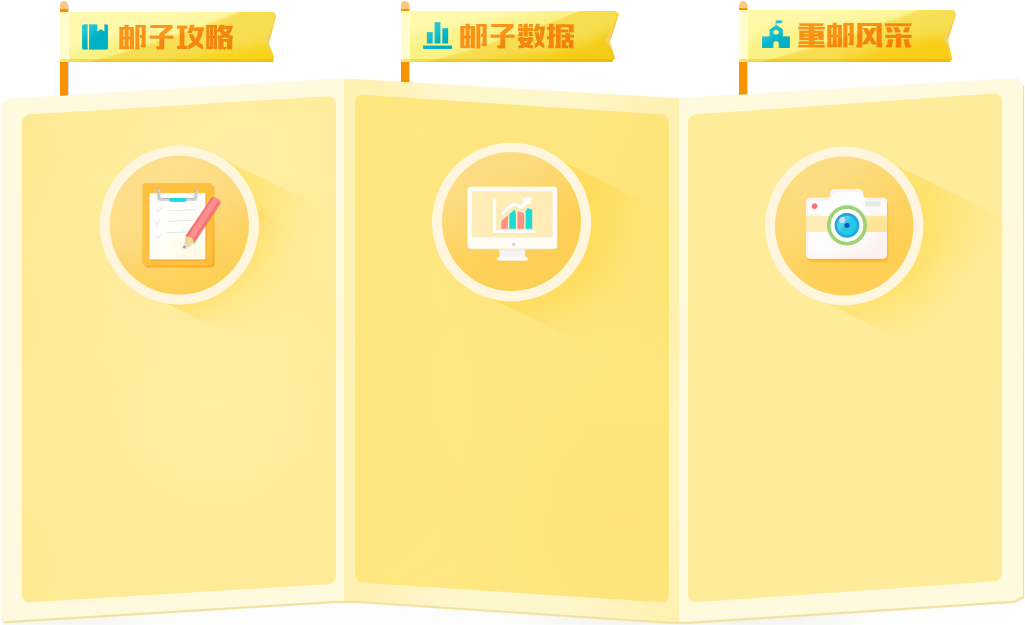
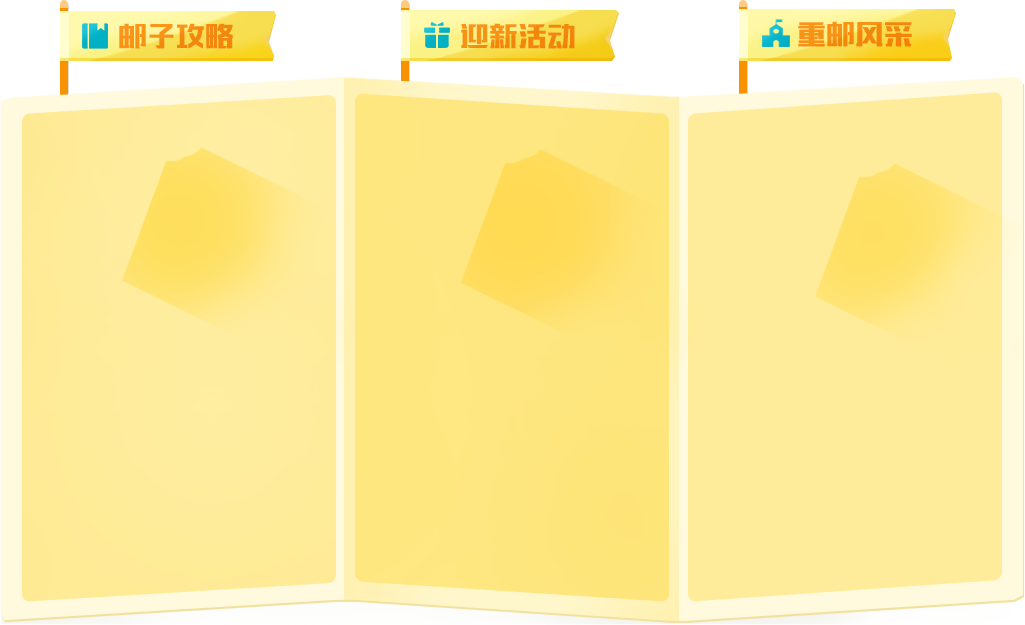
整合

diff --git a/index.html b/index.html
@@ -26,7 +26,6 @@
                         <li class="navLi data animated"><a href="./yingxin.html">迎新活动</a></li>
                         <li class="navLi know animated"><a href="./xzbbm.html">学长帮帮忙</a></li>
                         <li class="navLi aboutUs animated"><a href="##">关于我们</a></li>
-                        <li class="navLi freshLogin animated"><a href="##">新生登录</a></li>
                         <li class="slideBar"></li>
                     </ul>
                 </div>
@@ -162,19 +161,24 @@
         <div id="content-wrp">
             <div id="content">
                  <div class="c_section1 section">
+                    <div class="icon icon1"></div>
                     <p class="desc">提供给新生们火车站，机场等到学校的公交车路线以及打车的大致费用、寝室条件、必备清单、新生群、老乡群、班级群、学校周边银行、超市、美食美景等信息。</p>
                     <div class="moreBtn animated"><a href="##">了解更多</a><div class="shadow"></div></div>
                 </div>
                 <div class="c_section2 section">
-                    <p class="desc">无论是寻找志同道合的朋友，各专业男女比例，各专业就业情况，还是同年同日，同乡比例，寝室信息等等。你想要知道的，都在这里。</p>
+                    <div class="icon icon2"></div>
+                    <p class="desc">这里有精彩的活动等待着各位萌新参与活动就有机会赢取精美奖品!</p>
                     <div class="moreBtn animated"><a href="##">了解更多</a><div class="shadow"></div></div>
                 </div>
                 <div class="c_section3 section">
+                    <div class="icon icon3"></div>
                     <p class="desc">这里有优秀教师和邮子的风采展示，各大校级学生组织的简介，更有精美照片与精彩原创视频。</p>
                     <div class="moreBtn animated"><a href="##">了解更多</a><div class="shadow"></div></div>
                 </div>
             </div>
         </div>
+
+
         <div id="description-wrp">
             <div id="description">
                 <div class="forum">

diff --git a/css/main_page.css b/css/main_page.css
@@ -310,6 +310,7 @@ body {
 	transform: rotate(0deg);
 }
 }
+
 #main #banner-wrp .banner .isLand-con #gotocqupt {
 	z-index: 5;
 	position: absolute;
@@ -817,11 +818,44 @@ body {
 	margin: 0 auto;
 	background:url('../img/content.png') no-repeat center center;
 }
+
 #main #content .section {
+	position: relative;
 	float: left;
 	width: 320px;
 	height: 460px;
 	padding-top: 117px;
+}
+#main #content .section:hover .icon {
+	-webkit-animation-name: iconRotate;
+	animation-name: iconRotate;
+
+}
+@keyframes iconRotate {
+	0% {transform: rotate(0deg)}
+	30%{transform: rotate(30deg)}
+	60%{transform: rotate(-15deg)}
+	80%{transform: rotate(10deg)}
+	100%{transform: rotate(0deg)}
+}
+#main #content .section .icon {
+	position: absolute;
+	left: 80px;
+	top: 142px;
+	width: 160px;
+	height: 160px;
+	-webkit-animation-duration: 0.5s;
+	animation-duration: 0.5s;
+	animation-timing-function: linear;
+}
+#main #content .section .icon1 {
+	background: url('../img/iconGuidence.png') no-repeat center center;
+}
+#main #content .section .icon2 {
+	background: url('../img/iconLoudSpeaker.png') no-repeat center center;
+}
+#main #content .section .icon3 {
+	background: url('../img/iconCamera.png') no-repeat center center;
 }
 #main #content .section.c_section1 {
 	margin-left: 19px;

diff --git a/gonglue.html b/gonglue.html
@@ -20,12 +20,11 @@
                 <div class="h_m_right">
                     <ul class="clearfix navUl">
                         <li class="navLi  animated mainPage"><a href="index.html">首页</a></li>
-                        <li class="navLi tactics currentPage animated"><a href="##">邮子攻略</a></li>
-                        <li class="navLi mien animated"><a href="fengcai.html">重邮风采</a></li>
+                        <li class="navLi tactics currentPage animated"><a href="./gonglue.html">邮子攻略</a></li>
+                        <li class="navLi mien animated"><a href="./fengcai.html">重邮风采</a></li>
                         <li class="navLi data animated"><a href="./yingxin.html">迎新活动</a></li>
-                        <li class="navLi know animated"><a href="xzbbm.html">学长帮帮忙</a></li>
+                        <li class="navLi know animated"><a href="./xzbbm.html">学长帮帮忙</a></li>
                         <li class="navLi aboutUs animated"><a href="##">关于我们</a></li>
-                        <li class="navLi freshLogin animated"><a href="##">新生登录</a></li>
                         <li class="slideBar"></li>
                     </ul>
                 </div>

diff --git a/fengcai.html b/fengcai.html
@@ -24,9 +24,8 @@
                         <li class="navLi tactics animated"><a href="./gonglue.html">邮子攻略</a></li>
                         <li class="navLi mien animated currentPage"><a href="./fengcai.html">重邮风采</a></li>
                         <li class="navLi data animated"><a href="./yingxin.html">迎新活动</a></li>
-                        <li class="navLi know animated"><a href="##">学长帮帮忙</a></li>
+                        <li class="navLi know animated"><a href="./xzbbm.html">学长帮帮忙</a></li>
                         <li class="navLi aboutUs animated"><a href="##">关于我们</a></li>
-                        <li class="navLi freshLogin animated"><a href="##">新生登录</a></li>
                         <li class="slideBar"></li>
                     </ul>
                 </div>

diff --git a/js/main.js b/js/main.js
@@ -191,6 +191,7 @@ descNextA.onclick = function () {         // 向右箭头
 	}
 	addClass(positionDescArry[lunboCon.index],'currentArrow');
 	descfix(targetArrow().offsetLeft,targetArrow().offsetTop);
+	positionDesc.innerHTML = targetArrow().getAttribute('name');
 }
 descPrevA.onclick = function () {      // 向左箭头
 	var x_ = 0;
@@ -210,6 +211,7 @@ descPrevA.onclick = function () {      // 向左箭头
 	}
 	addClass(positionDescArry[lunboCon.index],'currentArrow');
 	descfix(targetArrow().offsetLeft,targetArrow().offsetTop);
+	positionDesc.innerHTML = targetArrow().getAttribute('name');
 }
 
 

diff --git a/xzbbm.html b/xzbbm.html
@@ -25,7 +25,6 @@
                         <li class="navLi data animated"><a href="./yingxin.html">迎新活动</a></li>
                         <li class="navLi know currentPage animated"><a href="./xzbbm.html">学长帮帮忙</a></li>
                         <li class="navLi aboutUs animated"><a href="##">关于我们</a></li>
-                        <li class="navLi freshLogin animated"><a href="##">新生登录</a></li>
                         <li class="slideBar"></li>
                     </ul>
                 </div>

diff --git a/yingxin.html b/yingxin.html
@@ -25,7 +25,6 @@
                         <li class="navLi data currentPage animated"><a href="./yingxin.html">迎新活动</a></li>
                         <li class="navLi know animated"><a href="./xzbbm.html">学长帮帮忙</a></li>
                         <li class="navLi aboutUs animated"><a href="##">关于我们</a></li>
-                        <li class="navLi freshLogin animated"><a href="##">新生登录</a></li>
                         <li class="slideBar"></li>
                     </ul>
                 </div>
